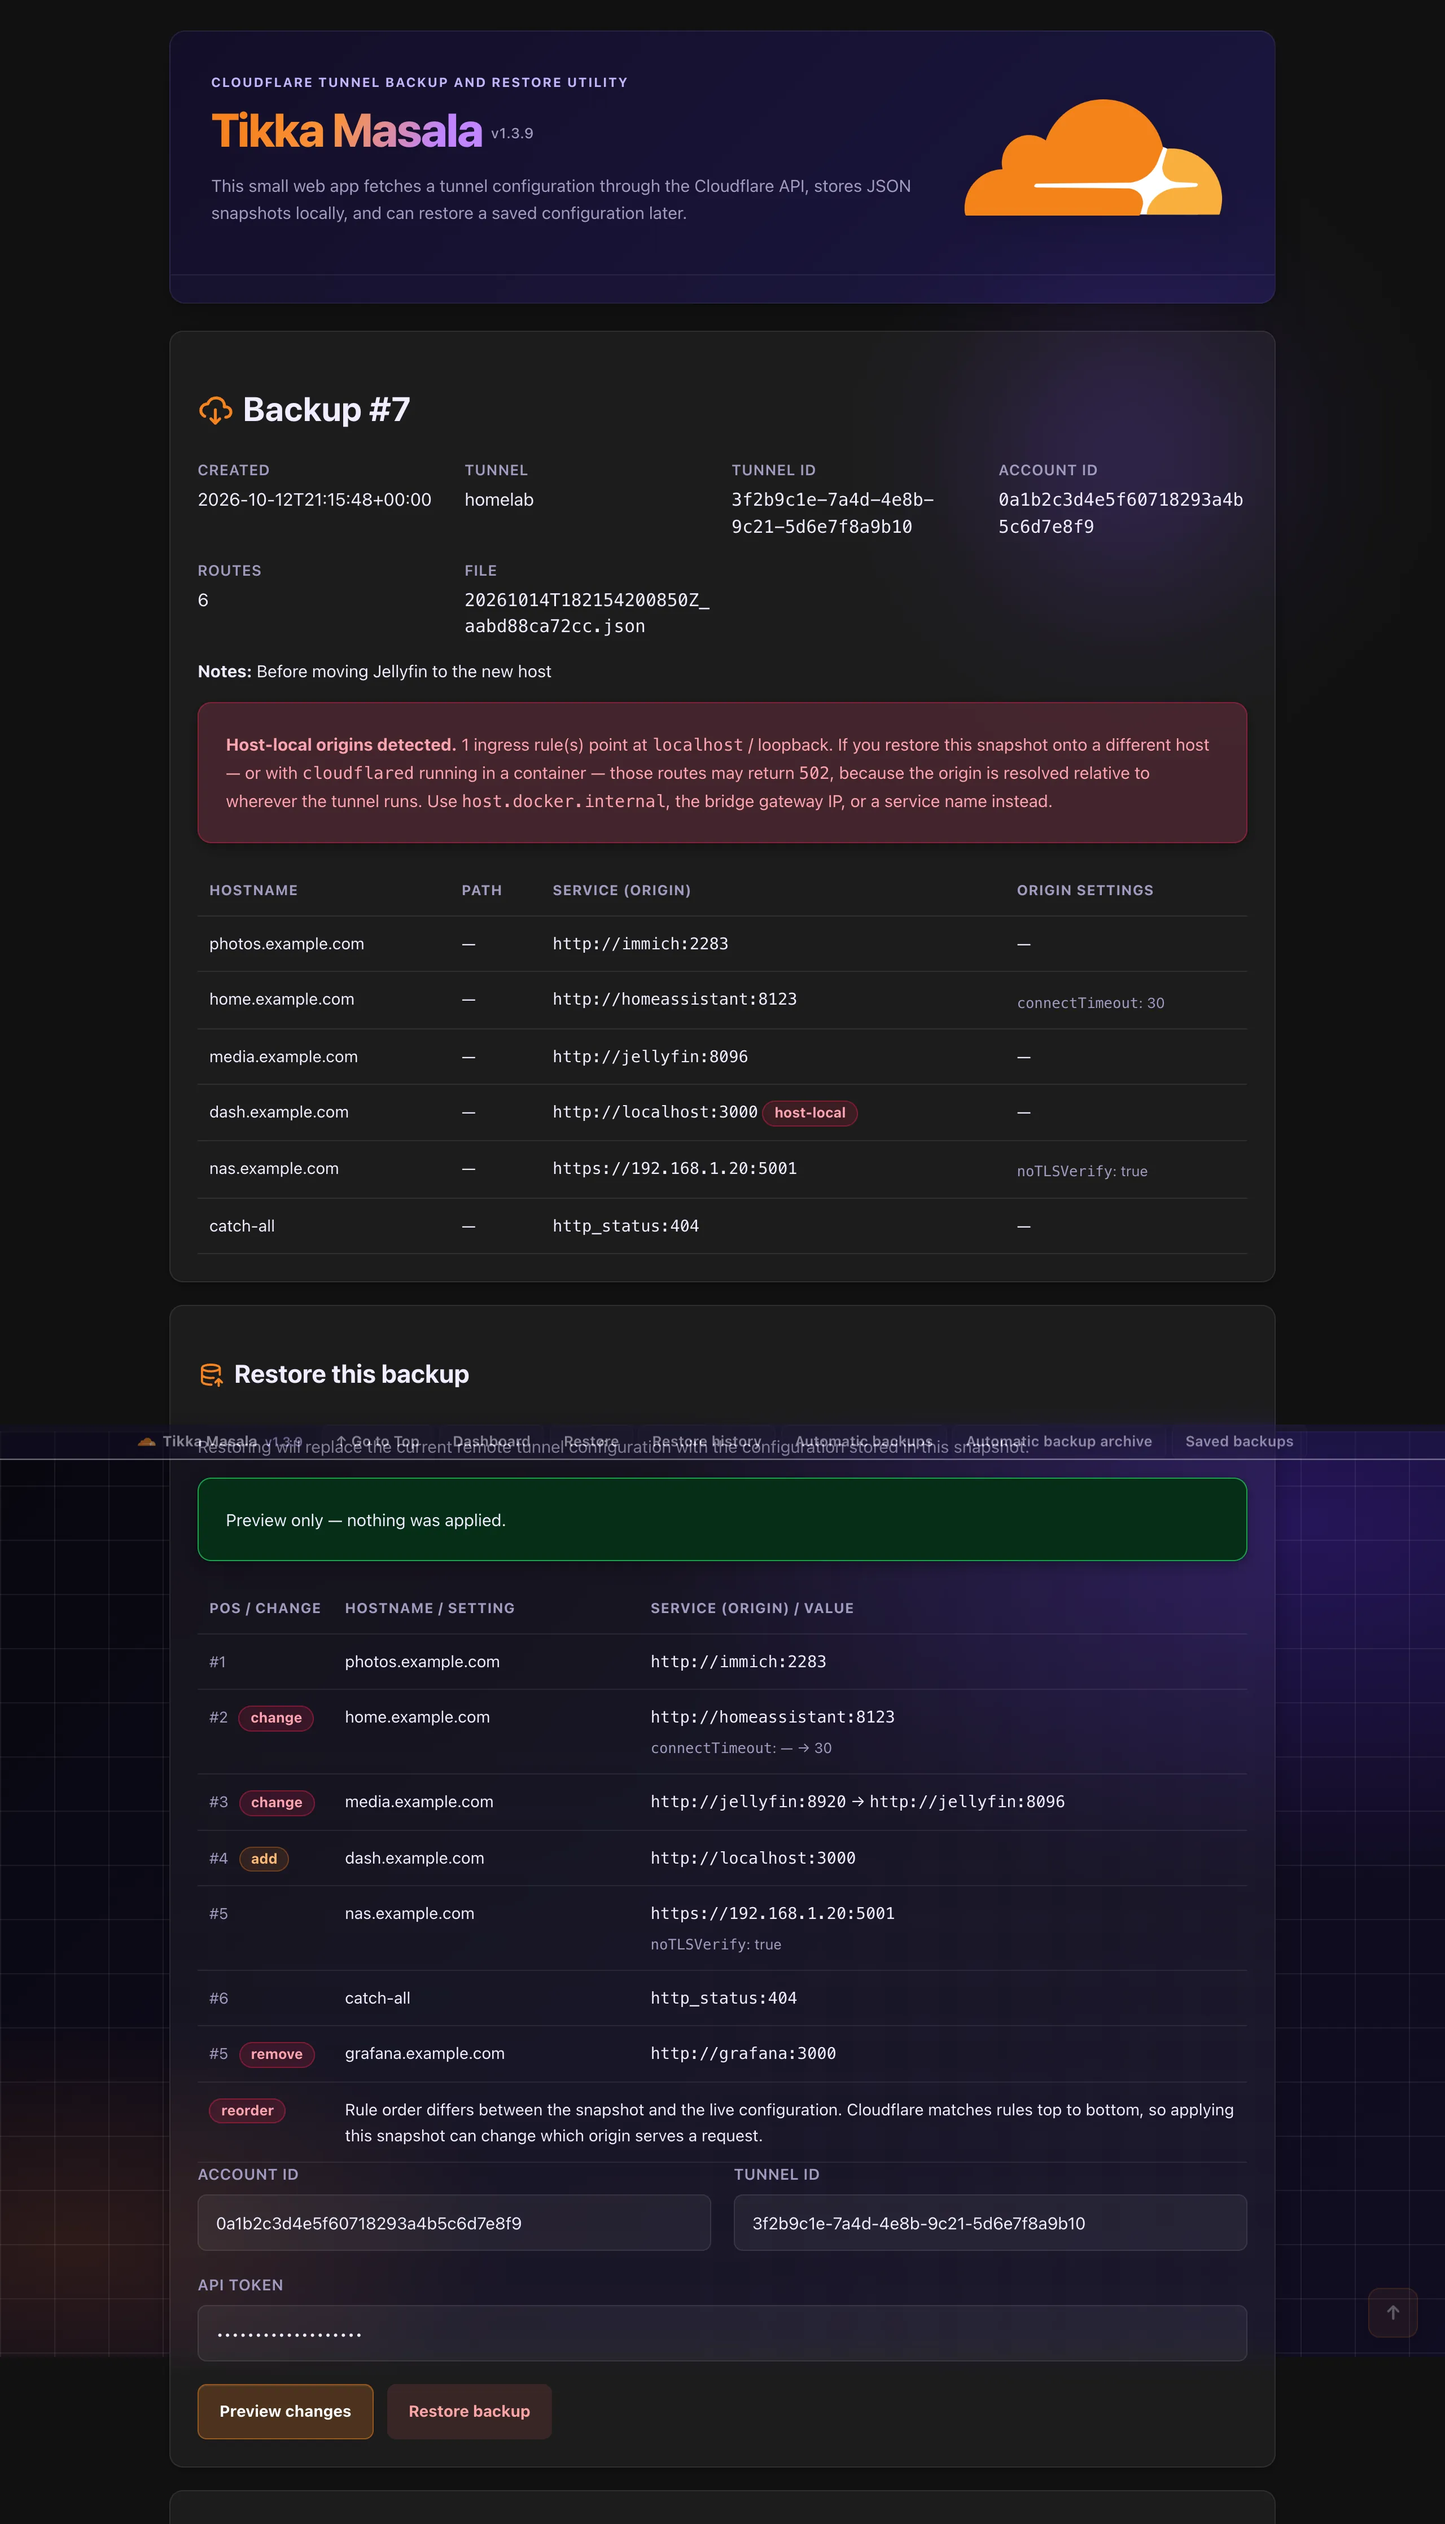
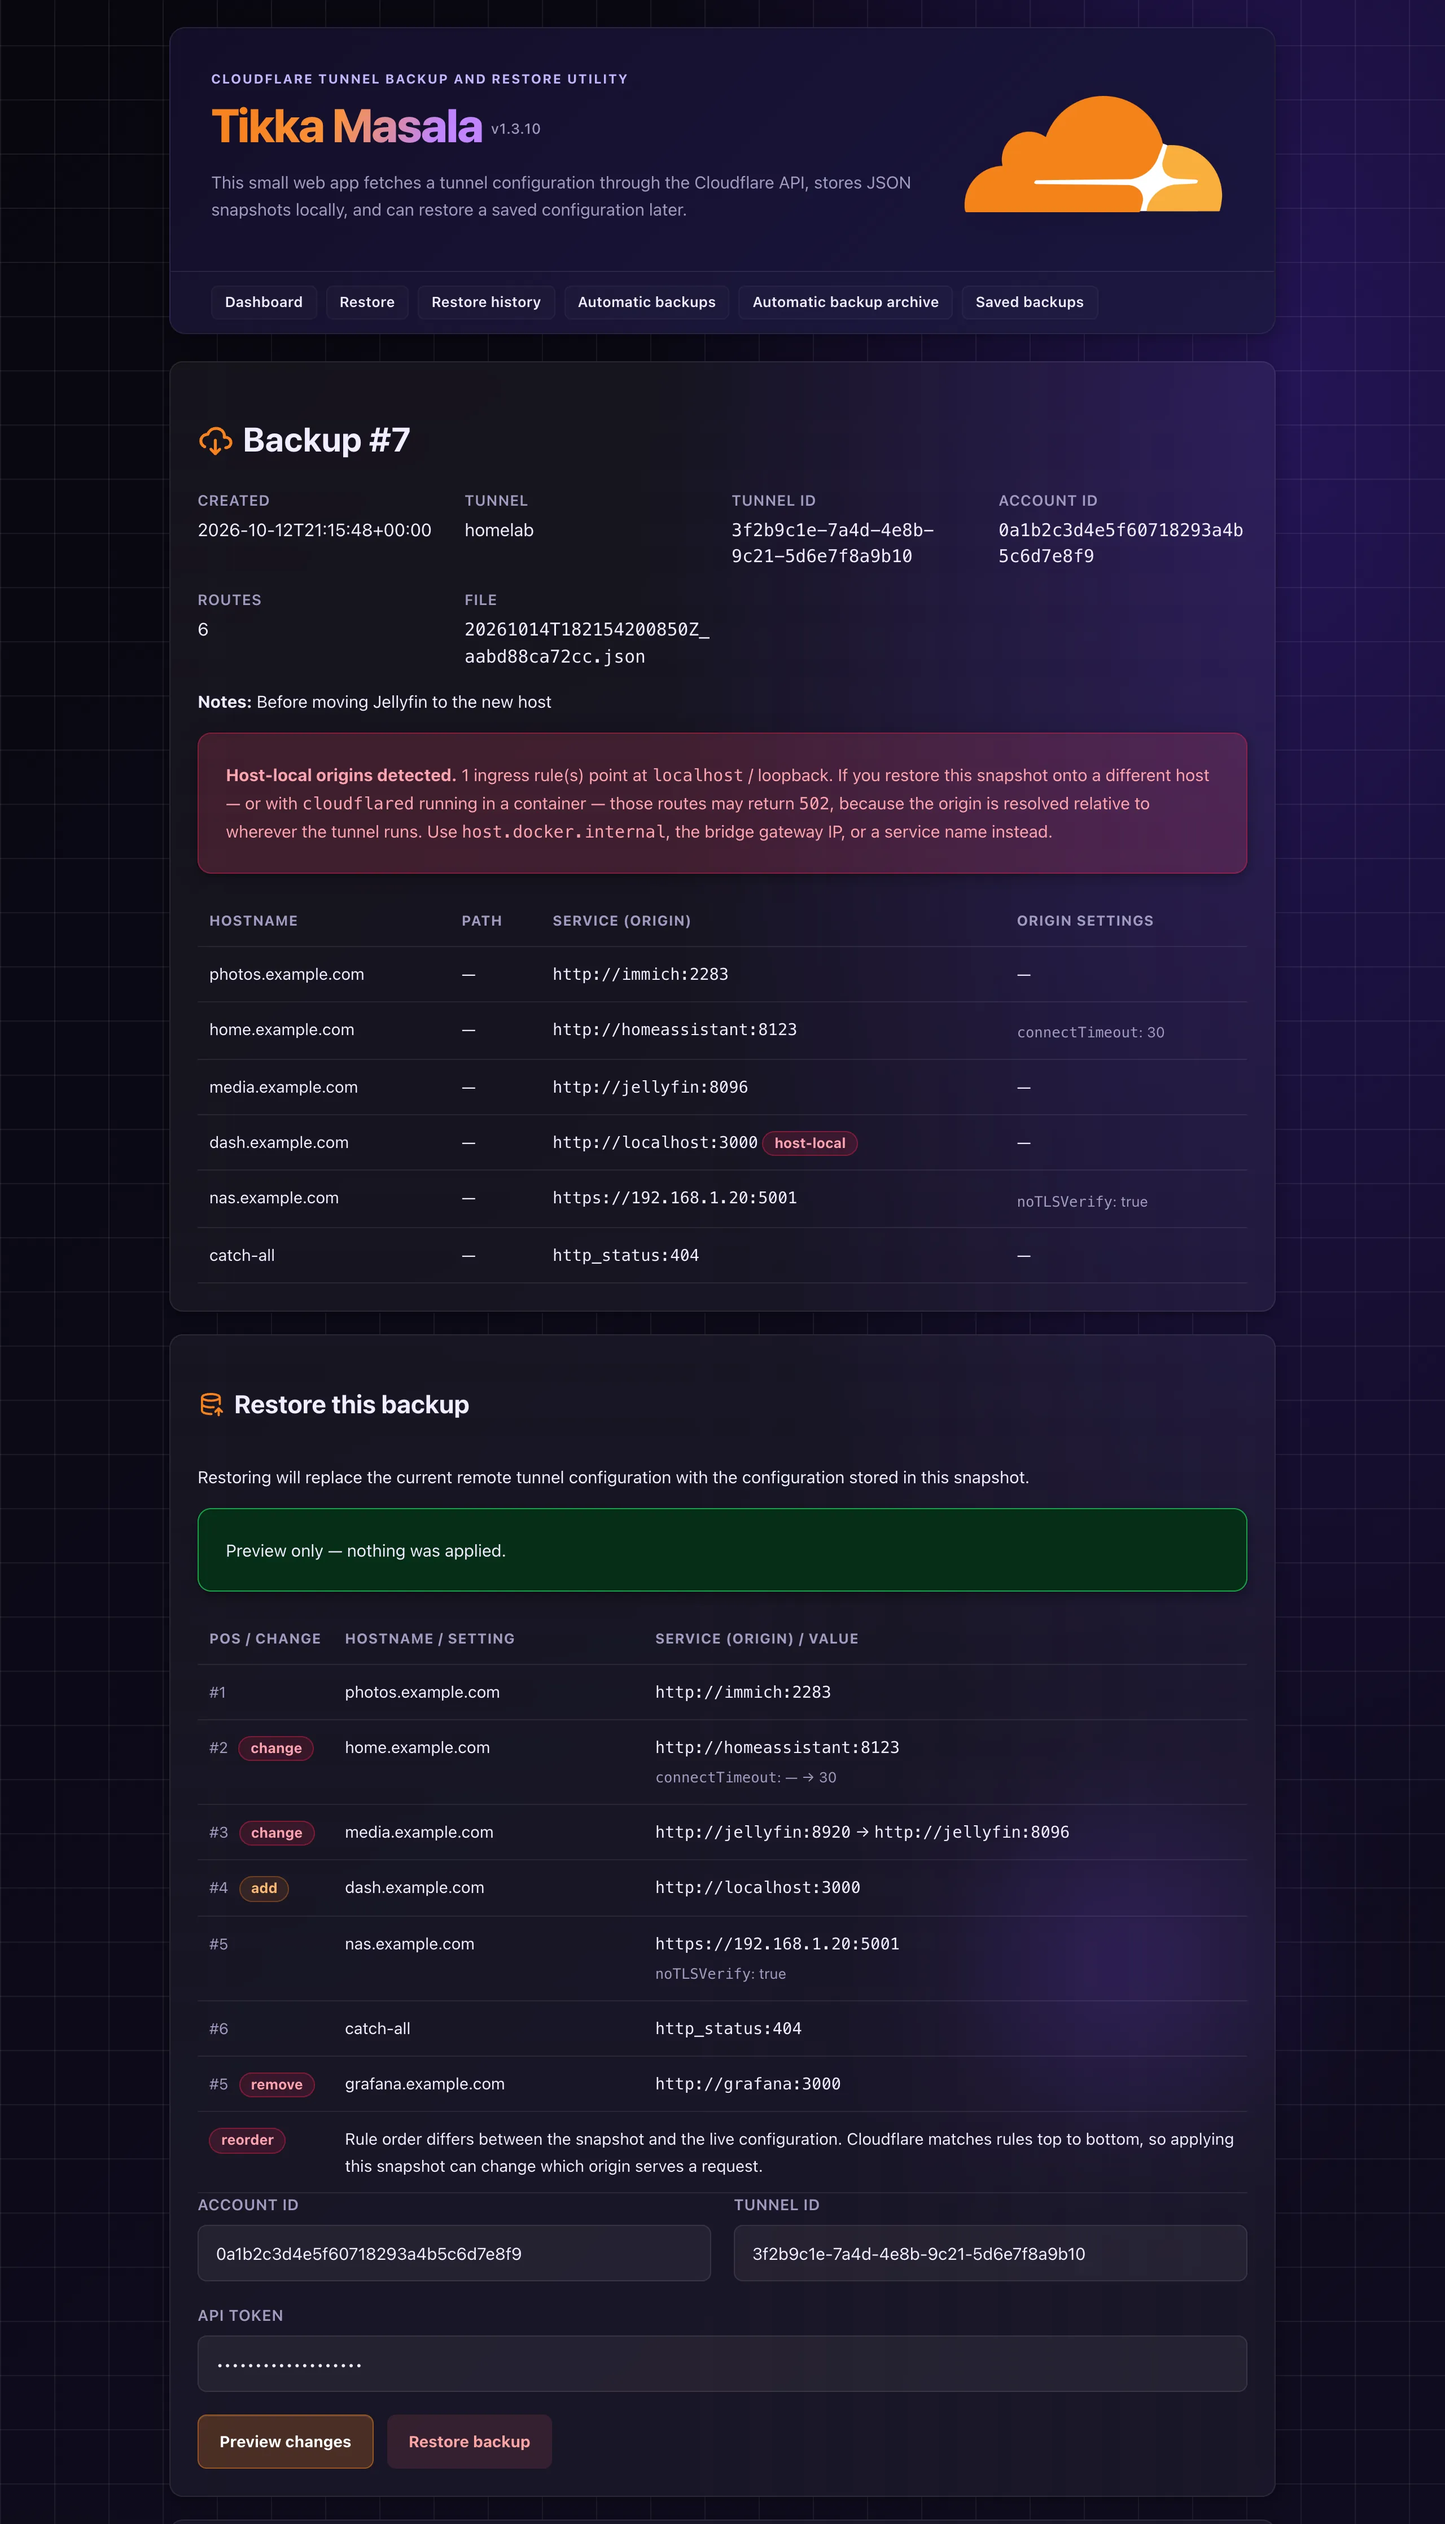
docs: retake website screenshots without the app's floating nav
The full-page captures of the home and backup detail pages showed the
app's sticky navigation bar, the back-to-top button and a band of the
fixed background halfway down, because they were taken while scrolled.
Retake them with a viewport as tall as the page, so nothing scrolls,
and refresh the social card. Header now shows 1.3.10.

Changed region(s): [[0.0, 0.0, 1.0, 0.9946], [0.6875, 0.7149, 0.8438, 0.8392], [0.875, 0.9636, 0.9062, 0.9946]]

diff --git a/docs/index.html b/docs/index.html
@@ -617,7 +617,7 @@
     <div class="shots-grid reveal">
       <div>
         <div class="shot shot-scroll">
-          <img src="img/dashboard.webp" width="2560" height="8882" loading="lazy" alt="Home page: tunnel list, single backup form, automatic backups with recent runs, saved backups with archive statistics, and notifications">
+          <img src="img/dashboard.webp" width="2560" height="8942" loading="lazy" alt="Home page: tunnel list, single backup form, automatic backups with recent runs, saved backups with archive statistics, and notifications">
         </div>
         <p class="shot-caption"><strong>Home.</strong> Load tunnels, take a manual backup, configure the scheduler and see its recent runs, browse saved backups with archive statistics and retention, and check notification channels. (Scroll inside the image.)</p>
       </div>
